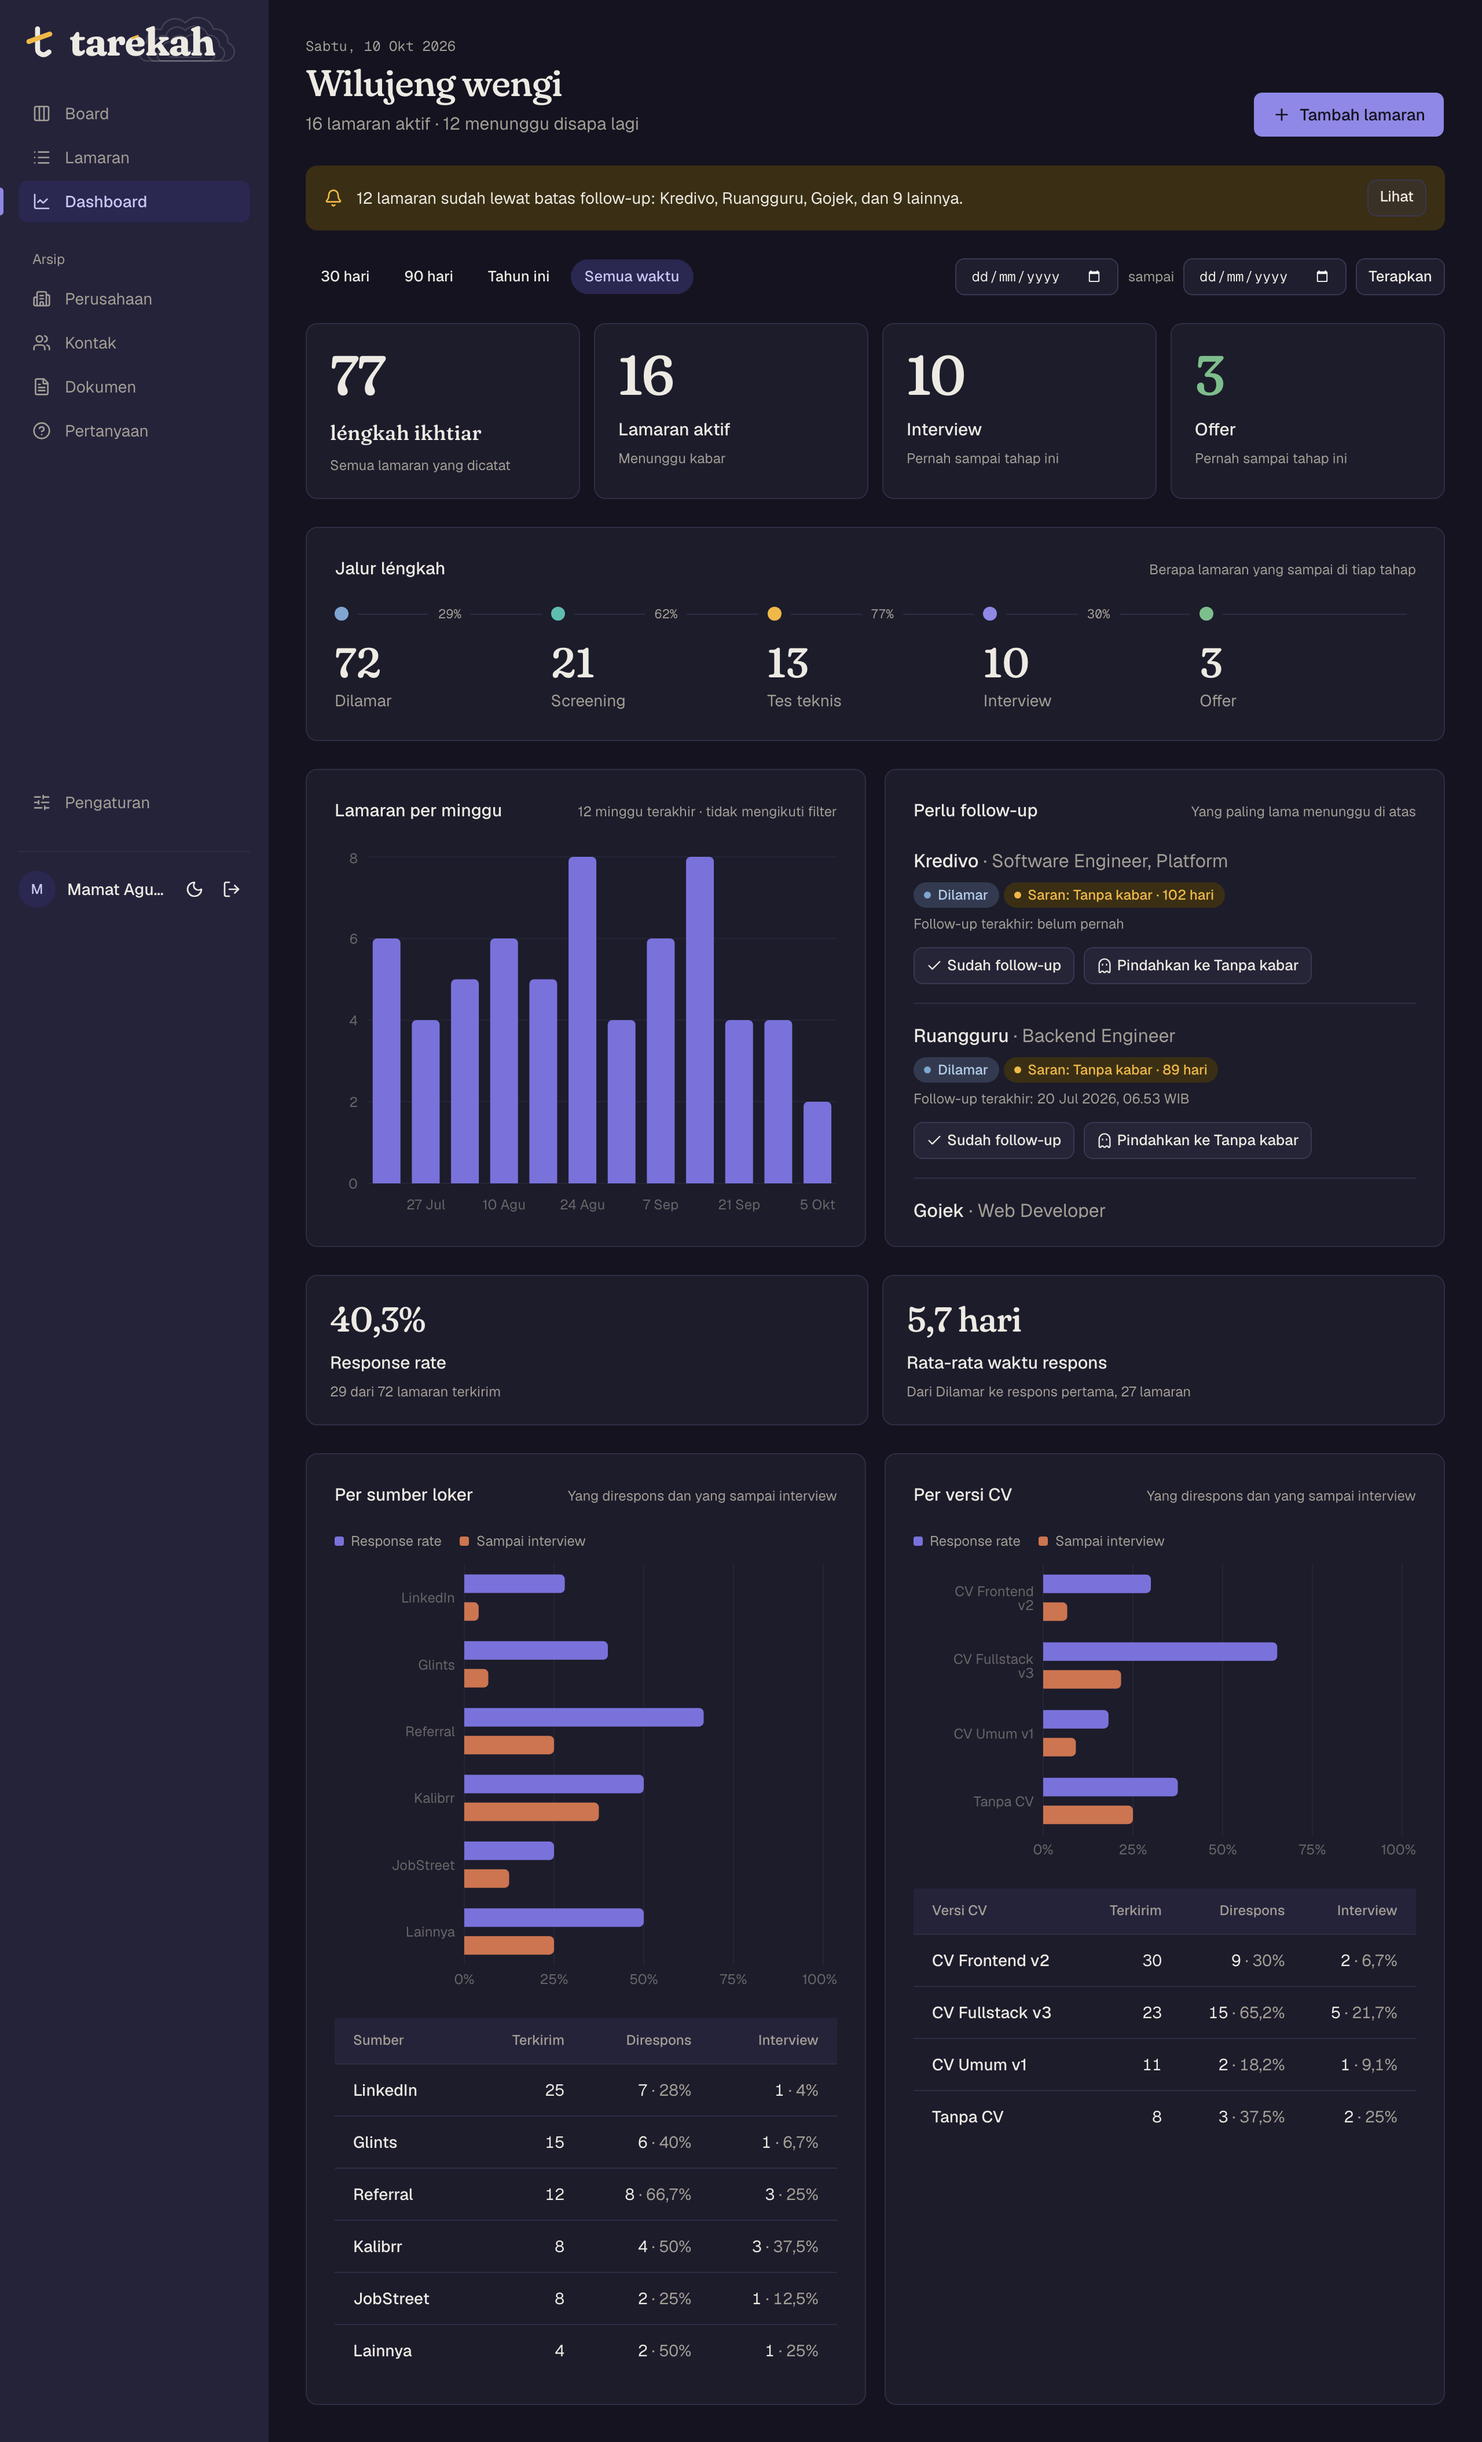
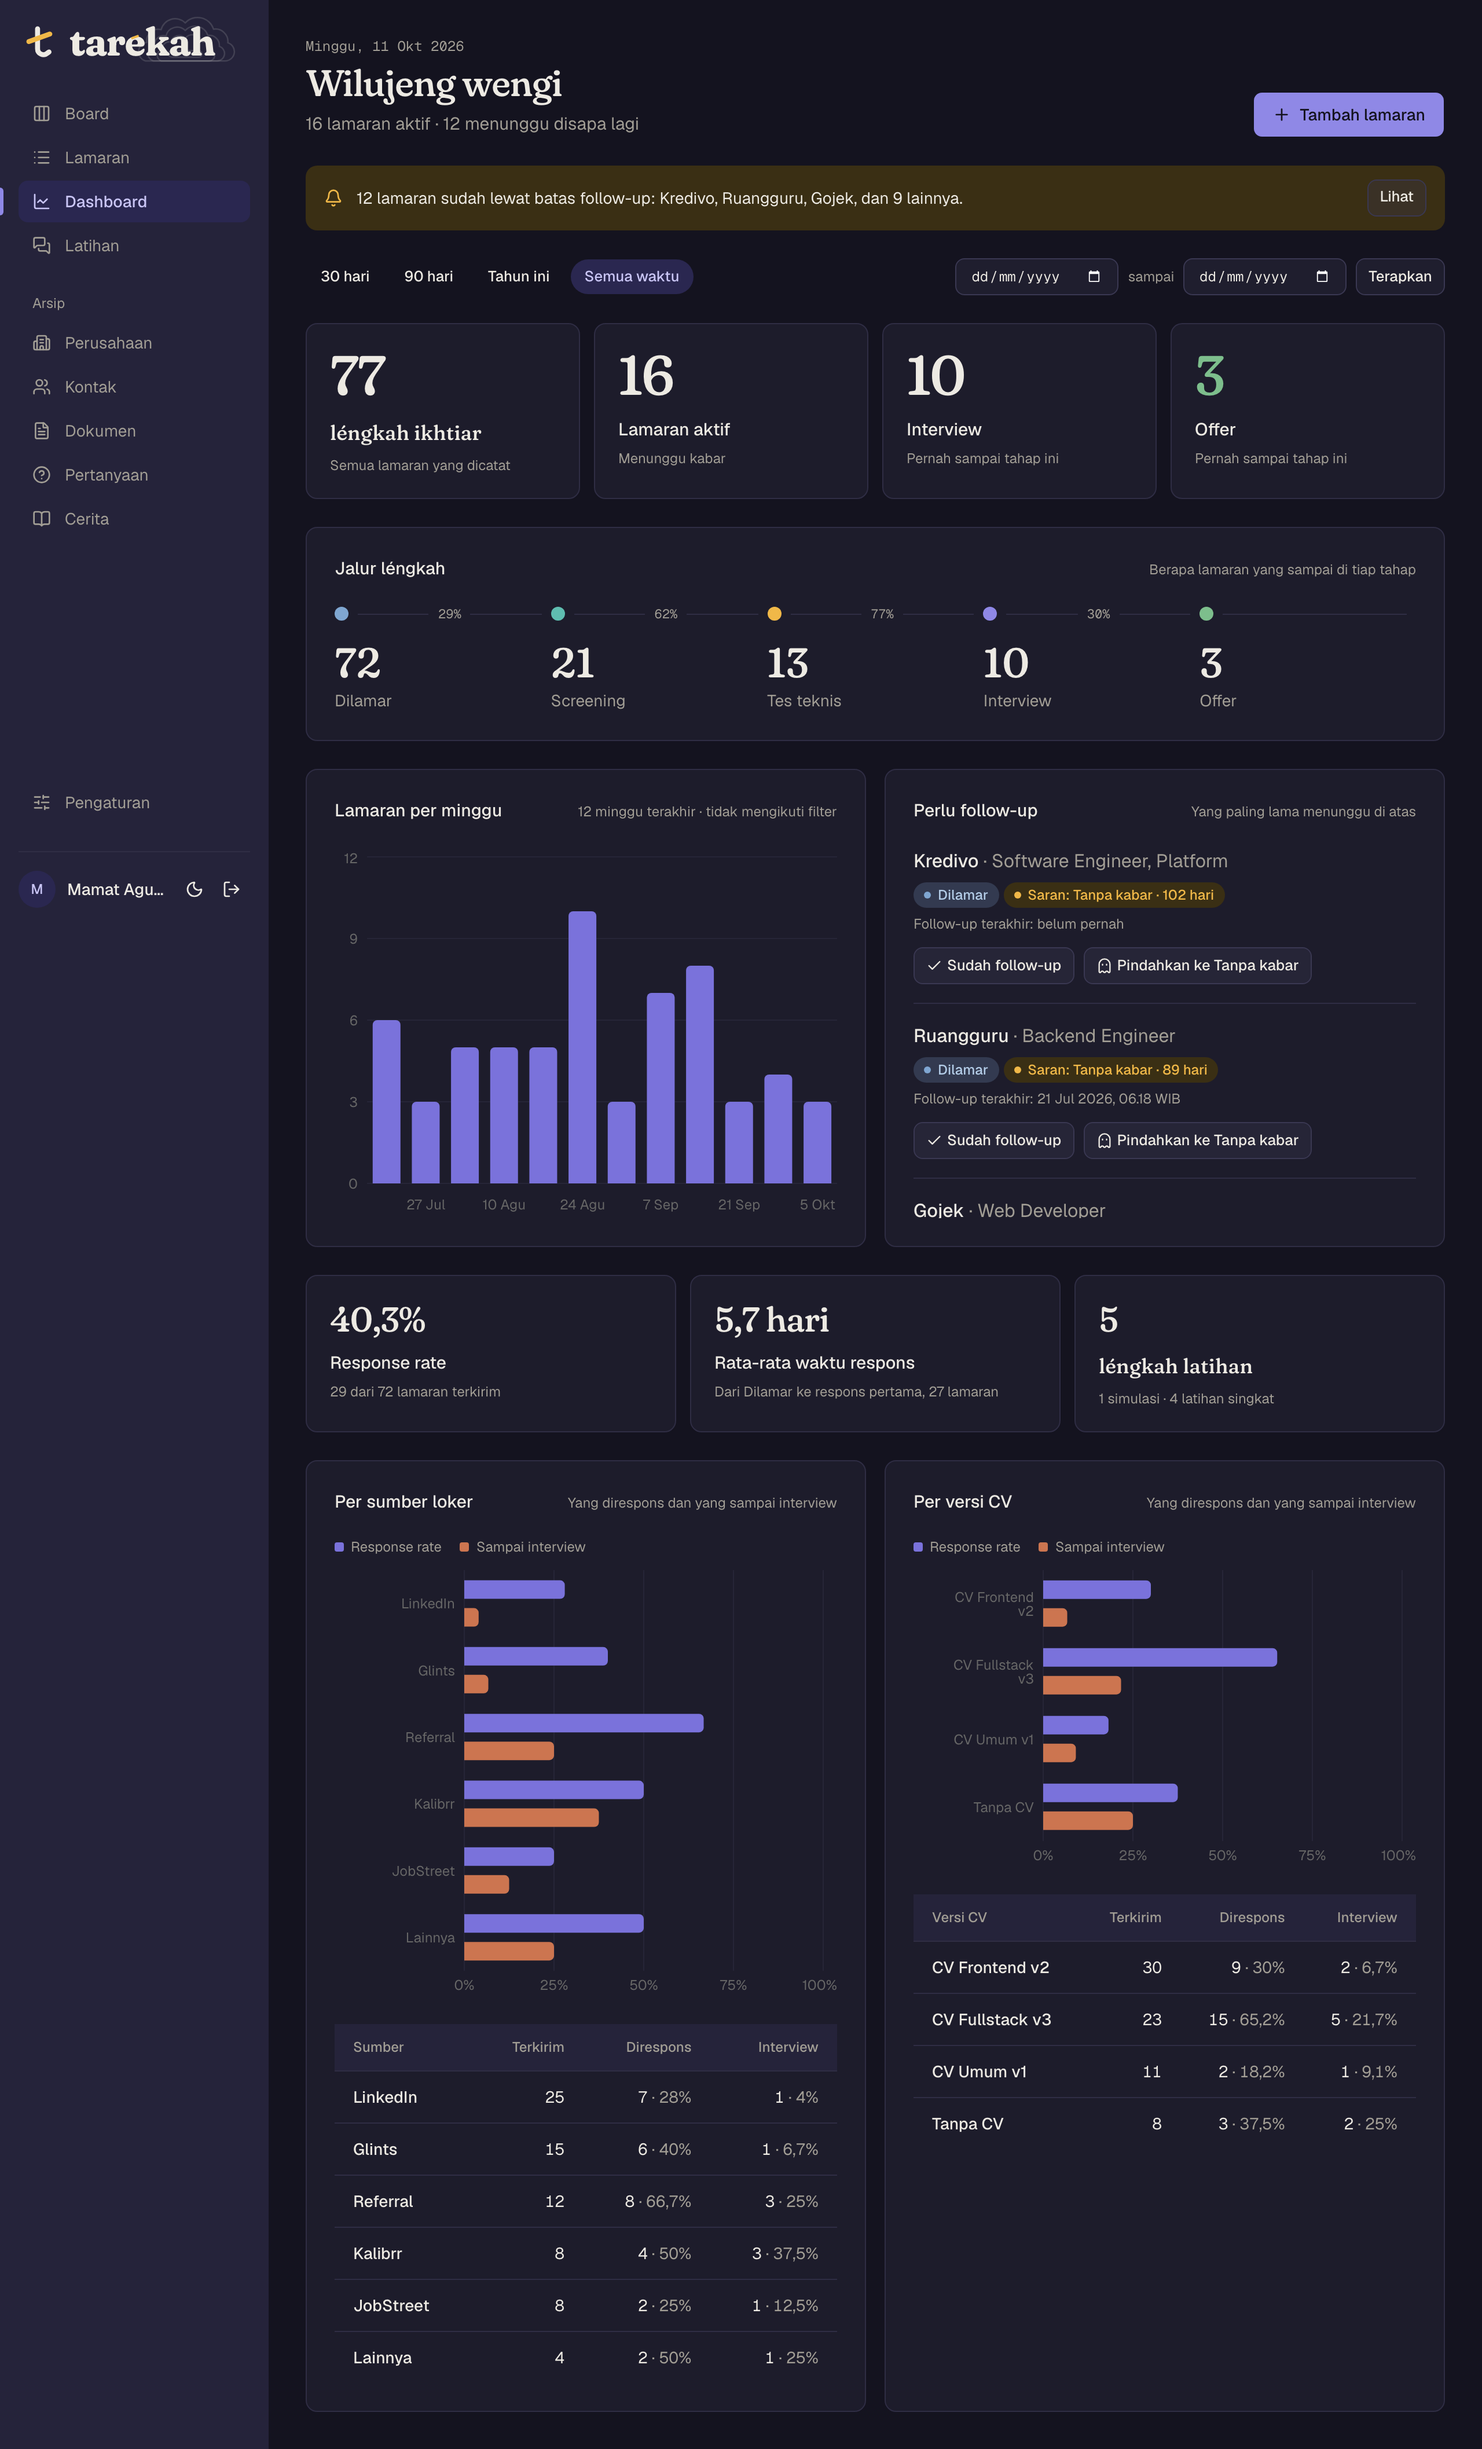
chore: seed practice sessions and refresh screenshots

diff --git a/scripts/seed.ts b/scripts/seed.ts
@@ -17,6 +17,10 @@ import { Pool } from "pg";
 import * as schema from "../src/db/schema";
 import { FOLLOW_UP_STATUSES } from "../src/features/applications/follow-up";
 import type {
+  StoredSummary,
+  TurnOrigin,
+} from "../src/features/practice/schemas";
+import type {
   ApplicationStatus,
   Competency,
   InterviewStage,
@@ -35,6 +39,7 @@ const {
   documents,
   interviews,
   practiceSessions,
+  practiceTurns,
   questions,
   questionStories,
   stories,
@@ -43,6 +48,7 @@ const {
 
 const DAY = 24 * 60 * 60 * 1000;
 const HOUR = 60 * 60 * 1000;
+const MINUTE = 60 * 1000;
 
 // Deterministic, so two runs on the same day produce the same data.
 function createRandom(seed: number) {
@@ -330,6 +336,103 @@ const STORIES: ReadonlyArray<{
 ];
 
 // Pasted postings, for a few applications.
+// Practice. A drill is a question from the bank and one answer to it.
+const DRILL_ANSWERS = [
+  "Waktu itu datanya belum lengkap, jadi saya ambil spike satu hari, lalu memutuskan dengan tim berdasarkan hasilnya.",
+  "Saya mulai dari apakah jawabannya boleh salah. Kalau tidak boleh, LLM hanya jadi pembantu, bukan penentu.",
+  "Setiap pekerjaan membawa kunci idempoten, dan pekerja mencatat kunci yang sudah selesai sebelum mengirim hasil.",
+  "Saya pernah merilis tanpa rencana rollback. Sejak itu setiap rilis punya langkah mundur yang sudah dicoba.",
+];
+
+// One simulation, as it reads on its page: what was said, in order.
+const SIMULATION_TURNS: ReadonlyArray<
+  readonly ["interviewer" | "candidate", string]
+> = [
+  [
+    "interviewer",
+    "Terima kasih sudah meluangkan waktu. Boleh ceritakan sedikit tentang dirimu dan pekerjaanmu sekarang?",
+  ],
+  [
+    "candidate",
+    "Saya backend engineer, lima tahun terakhir di fintech. Sekarang memegang layanan pembayaran dan antrean pekerjaannya.",
+  ],
+  [
+    "interviewer",
+    "Ceritakan saat kamu harus mengambil keputusan teknis dengan informasi yang belum lengkap.",
+  ],
+  [
+    "candidate",
+    "Kami harus memilih antara menulis ulang layanan lama atau menambalnya. Saya minta satu hari untuk spike, lalu mengusulkan menambal dulu dengan batas waktu yang jelas.",
+  ],
+  ["interviewer", "Apa yang membuatmu yakin satu hari itu cukup?"],
+];
+
+// One simulation in each state the history shows: finished with a summary,
+// left alone for days, and still going.
+const SIMULATIONS = [
+  { ago: 3 * DAY, turns: 5, status: "completed" },
+  { ago: 2 * DAY, turns: 1, status: "in_progress" },
+  { ago: 20 * MINUTE, turns: 3, status: "in_progress" },
+] as const;
+
+const SIMULATION_ORIGIN: TurnOrigin = {
+  promptVersion: "interviewer-v1",
+  provider: "anthropic",
+  model: "claude-sonnet-5-5",
+};
+
+// The summary of that simulation. Its first question is one the bank already
+// has; `storyId` is filled in with a seeded story.
+const SIMULATION_SUMMARY: StoredSummary = {
+  promptVersion: "simulation-summary-v1",
+  provider: "anthropic",
+  model: "claude-sonnet-5-5",
+  result: {
+    overallStrengths: [
+      "Kamu langsung menyebut peranmu dan apa yang kamu pegang.",
+      "Keputusan soal spike satu hari diceritakan runtut: masalah, pilihan, lalu alasannya.",
+    ],
+    focusAreas: [
+      {
+        aspect: "specificity",
+        note: "Sebut hasilnya: berapa lama tambalan itu bertahan, dan apa yang terjadi setelah batas waktunya.",
+      },
+      {
+        aspect: "conciseness",
+        note: "Perkenalan bisa dua kalimat. Sisanya biarkan ditanya.",
+      },
+    ],
+    perQuestion: [
+      {
+        question: "Boleh ceritakan sedikit tentang dirimu?",
+        note: "Jelas dan relevan dengan posisi, tapi belum menyebut kenapa kamu melamar ke sini.",
+        improvedAnswerHint:
+          "Tutup dengan satu kalimat yang menghubungkan layanan pembayaran yang kamu pegang ke posisi ini.",
+      },
+      {
+        question:
+          "Ceritakan saat kamu harus mengambil keputusan teknis dengan informasi yang belum lengkap.",
+        note: "Pilihannya jelas dan alasannya masuk akal. Hasil akhirnya belum diceritakan.",
+        improvedAnswerHint:
+          "Tambahkan apa yang terjadi setelah tambalan itu berjalan, dengan satu angka kalau ada.",
+      },
+    ],
+    extractedQuestions: [
+      "Ceritakan saat kamu harus mengambil keputusan teknis dengan informasi yang belum lengkap.",
+      "Apa yang membuatmu yakin waktu yang kamu minta untuk spike itu cukup?",
+    ],
+    storySuggestions: [
+      {
+        question:
+          "Apa yang membuatmu yakin waktu yang kamu minta untuk spike itu cukup?",
+        storyId: null,
+        suggestion:
+          "Cerita ini menunjukkan caramu membatasi risiko sebelum memutuskan. Pakai bagian aksinya.",
+      },
+    ],
+  },
+};
+
 const JOB_DESCRIPTIONS = [
   `Tentang peran
 Kami mencari Backend Engineer untuk tim pembayaran. Kamu akan merancang API, menjaga keandalan sistem antrean, dan bekerja dekat dengan tim produk.
@@ -725,6 +828,8 @@ async function main() {
       const applicationIdsByCompany = new Map<string, string[]>();
       // Stories are linked to questions by their text, see STORIES.answers.
       const questionIdsByText = new Map<string, string>();
+      const interviewingIds: string[] = [];
+      const storyIds: string[] = [];
 
       for (const item of seeded) {
         const companyId = companyIds.get(item.company);
@@ -762,6 +867,10 @@ async function main() {
             updatedAt: last.at,
           })
           .returning({ id: applications.id });
+
+        if (last.status === "interview") {
+          interviewingIds.push(application.id);
+        }
 
         await tx.insert(applicationStatusEvents).values(
           item.events.map((event, index) => ({
@@ -873,6 +982,9 @@ async function main() {
             updatedAt: new Date(now - (10 - index * 2) * DAY),
           })
           .returning({ id: stories.id });
+
+        storyIds.push(row.id);
+
         const linked = answers.flatMap((text) => {
           const questionId = questionIdsByText.get(text);
 
@@ -889,10 +1001,96 @@ async function main() {
           );
         }
       }
+
+      // Nothing below draws from the random sequence, so adding to it does
+      // not change the data above.
+      for (const [index, question] of manualRows.entries()) {
+        const endedAt = new Date(now - (index * 2 + 1) * DAY);
+        const [drill] = await tx
+          .insert(practiceSessions)
+          .values({
+            userId: user.id,
+            mode: "drill",
+            language: "id",
+            status: "completed",
+            startedAt: endedAt,
+            endedAt,
+          })
+          .returning({ id: practiceSessions.id });
+
+        await tx.insert(practiceTurns).values(
+          [question.text, DRILL_ANSWERS[index % DRILL_ANSWERS.length]].map(
+            (content, position) => ({
+              userId: user.id,
+              sessionId: drill.id,
+              position,
+              role:
+                position === 0
+                  ? ("interviewer" as const)
+                  : ("candidate" as const),
+              content,
+              questionId: question.id,
+              createdAt: endedAt,
+            }),
+          ),
+        );
+      }
+
+      for (const [index, simulation] of SIMULATIONS.entries()) {
+        const completed = simulation.status === "completed";
+        const startedAt = now - simulation.ago;
+        const at = (position: number) =>
+          new Date(startedAt + position * 2 * MINUTE);
+        const [session] = await tx
+          .insert(practiceSessions)
+          .values({
+            userId: user.id,
+            applicationId: interviewingIds[index] ?? null,
+            mode: "simulation",
+            interviewType: index === 1 ? "technical_backend" : "behavioral",
+            level: "senior",
+            tone: "friendly",
+            maxTurns: 6,
+            language: "id",
+            status: simulation.status,
+            startedAt: new Date(startedAt),
+            endedAt: completed ? at(simulation.turns) : null,
+            summary: completed
+              ? {
+                  ...SIMULATION_SUMMARY,
+                  result: {
+                    ...SIMULATION_SUMMARY.result,
+                    storySuggestions:
+                      SIMULATION_SUMMARY.result.storySuggestions.map(
+                        (suggestion) => ({
+                          ...suggestion,
+                          storyId: storyIds[0] ?? null,
+                        }),
+                      ),
+                  },
+                }
+              : null,
+          })
+          .returning({ id: practiceSessions.id });
+
+        await tx.insert(practiceTurns).values(
+          SIMULATION_TURNS.slice(0, simulation.turns).map(
+            ([role, content], position) => ({
+              userId: user.id,
+              sessionId: session.id,
+              position,
+              role,
+              content,
+              feedback: role === "interviewer" ? SIMULATION_ORIGIN : null,
+              createdAt: at(position),
+            }),
+          ),
+        );
+      }
     });
 
     console.log(
-      `Seeded ${seeded.length} applications, ${STORIES.length} stories and ${MANUAL_QUESTIONS.length} manual questions.`,
+      `Seeded ${seeded.length} applications, ${STORIES.length} stories, ${MANUAL_QUESTIONS.length} manual questions and ${MANUAL_QUESTIONS.length + SIMULATIONS.length} practice sessions.`,
     );
   } finally {
     await pool.end();

diff --git a/e2e/screenshots.ts b/e2e/screenshots.ts
@@ -53,6 +53,9 @@ for (const colorScheme of ["light", "dark"] as const) {
     await page.goto("/applications");
     await capture("applications");
 
+    await page.goto("/practice");
+    await capture("practice");
+
     for (const name of ARCHIVE_PAGES) {
       await page.goto(`/${name}`);
       await capture(name);
@@ -108,6 +111,16 @@ for (const colorScheme of ["light", "dark"] as const) {
         .click();
       await page.waitForURL(/\/applications\/[0-9a-f-]{36}$/);
       await capture("application");
+
+      // A finished simulation: its summary, then the conversation.
+      await page.goto("/practice");
+      await page
+        .getByRole("listitem")
+        .filter({ hasText: "Selesai" })
+        .getByRole("link", { name: /^Buka simulasi/ })
+        .click();
+      await page.waitForURL(/\/practice\/simulation\/[0-9a-f-]{36}$/);
+      await capture("simulation", true);
 
       await page.goto("/companies");
       await capture("companies");
